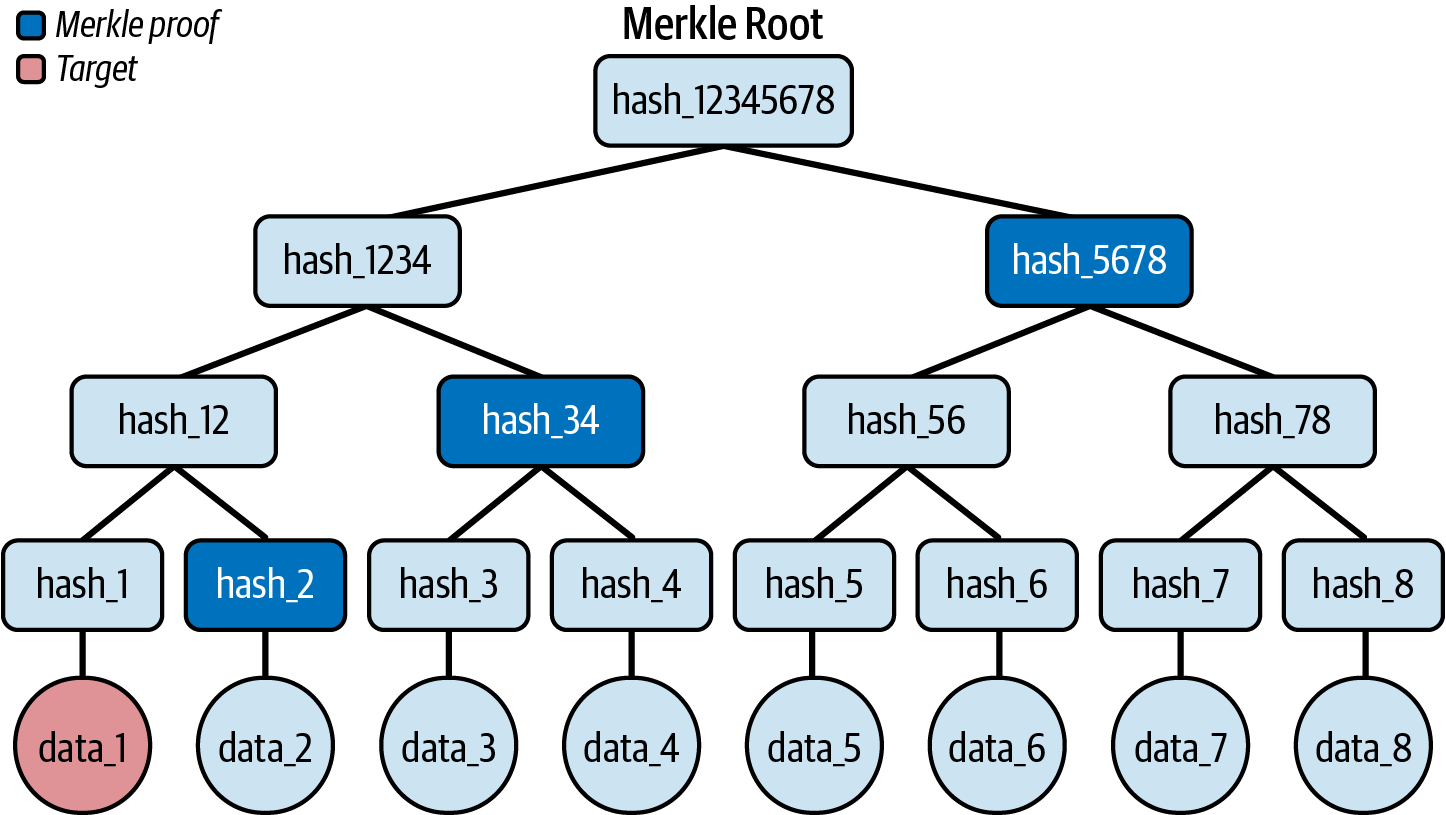
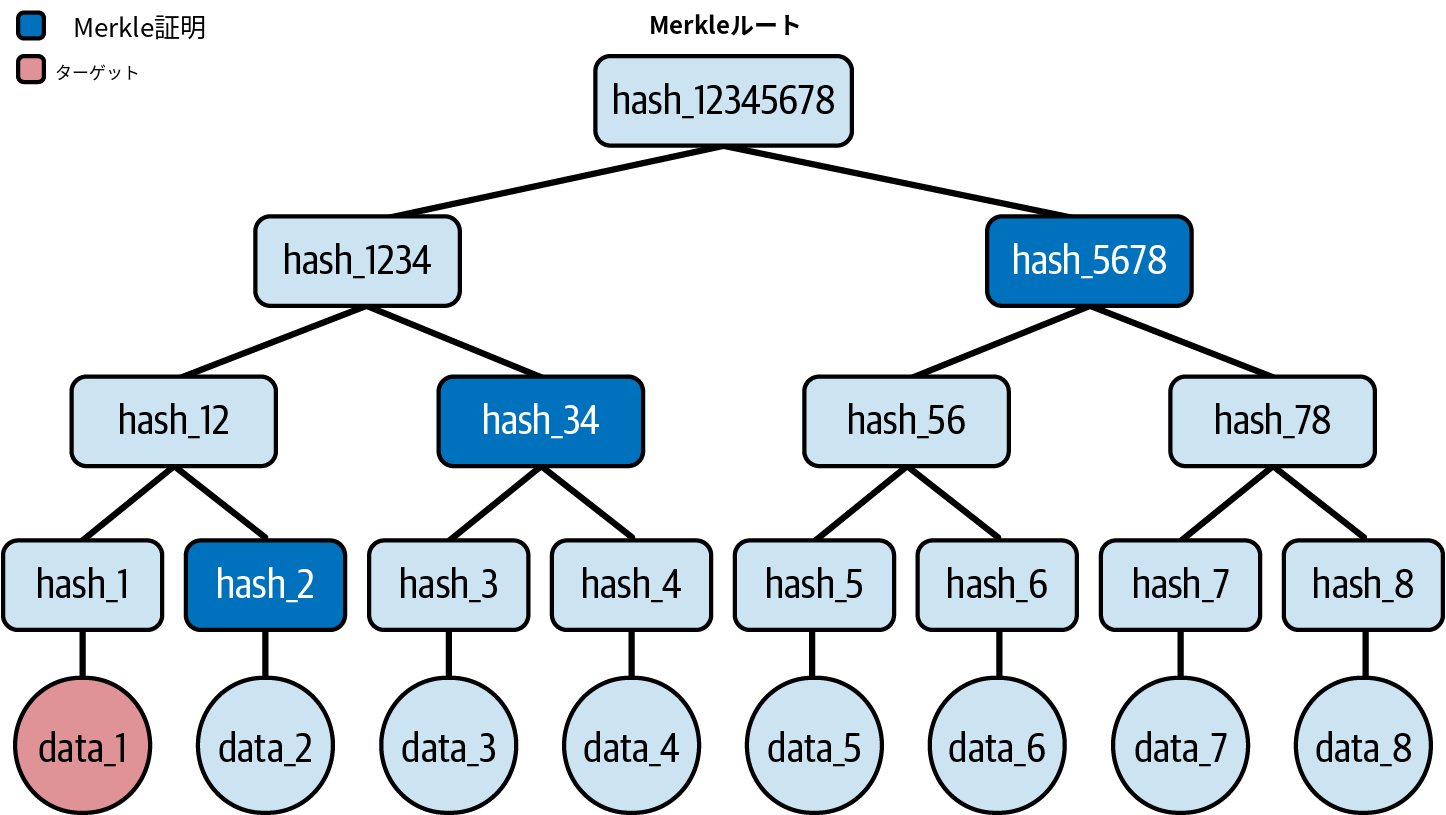
feat(ch14-images): localize batch 1 (1402-1406) and add Linux font fallback
Translate Merkle tree diagrams (1402-1405) and EVM stack operations
(1406). Also extend translate_image.py to fall back to Noto Sans CJK
when Hiragino fonts are unavailable (Linux/CI).

Changed region(s): [[0.0311, 0.0, 0.1556, 0.1227], [0.4357, 0.0, 0.5602, 0.0613]]

diff --git a/scripts/translate_image.py b/scripts/translate_image.py
@@ -45,8 +45,27 @@ import numpy as np
 from PIL import Image, ImageDraw, ImageFont
 import easyocr
 
-FONT_BOLD = "/System/Library/Fonts/ヒラギノ角ゴシック W6.ttc"
-FONT_REGULAR = "/System/Library/Fonts/ヒラギノ角ゴシック W3.ttc"
+import os
+
+_FONT_CANDIDATES_BOLD = [
+    "/System/Library/Fonts/ヒラギノ角ゴシック W6.ttc",
+    "/usr/share/fonts/opentype/noto/NotoSansCJK-Bold.ttc",
+]
+_FONT_CANDIDATES_REGULAR = [
+    "/System/Library/Fonts/ヒラギノ角ゴシック W3.ttc",
+    "/usr/share/fonts/opentype/noto/NotoSansCJK-Regular.ttc",
+]
+
+
+def _pick_font(paths: list[str]) -> str:
+    for p in paths:
+        if os.path.exists(p):
+            return p
+    return paths[0]
+
+
+FONT_BOLD = _pick_font(_FONT_CANDIDATES_BOLD)
+FONT_REGULAR = _pick_font(_FONT_CANDIDATES_REGULAR)
 
 
 def detect_text(image_path: str) -> list[dict]:
